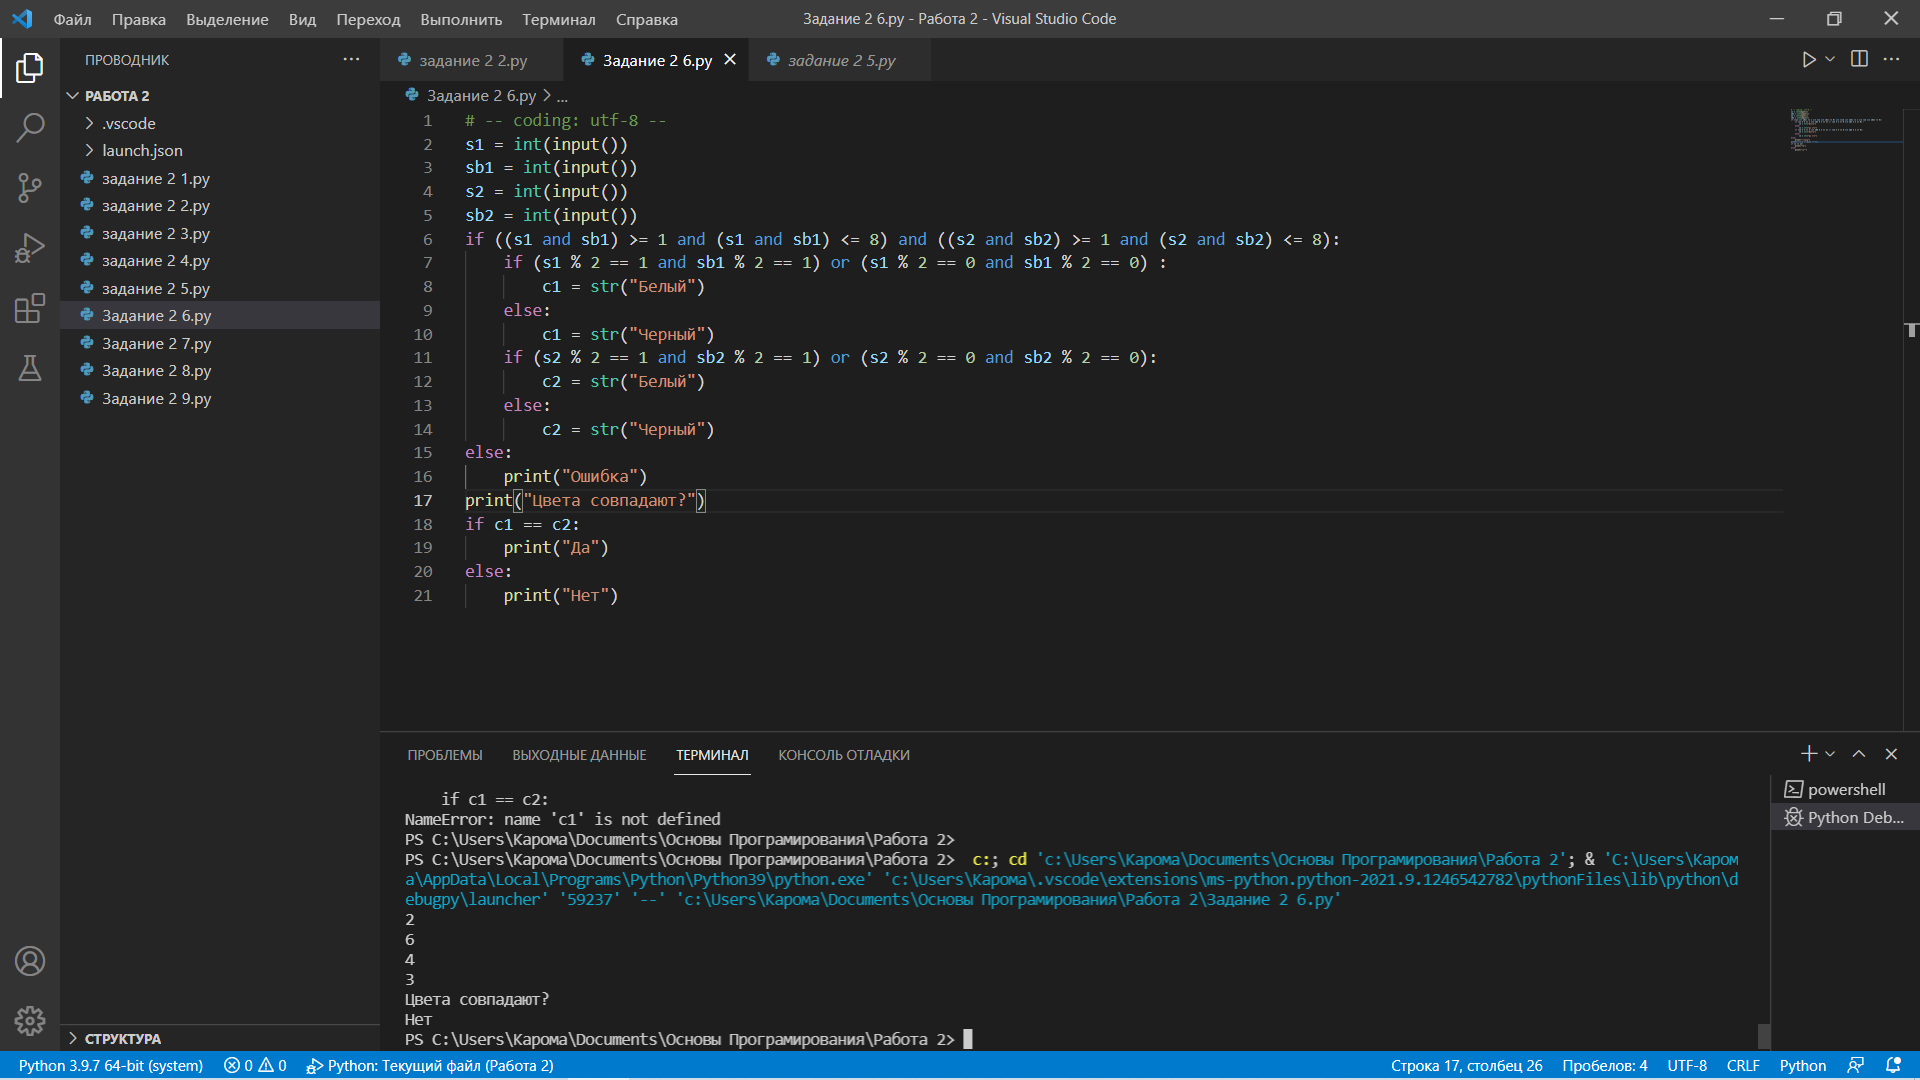
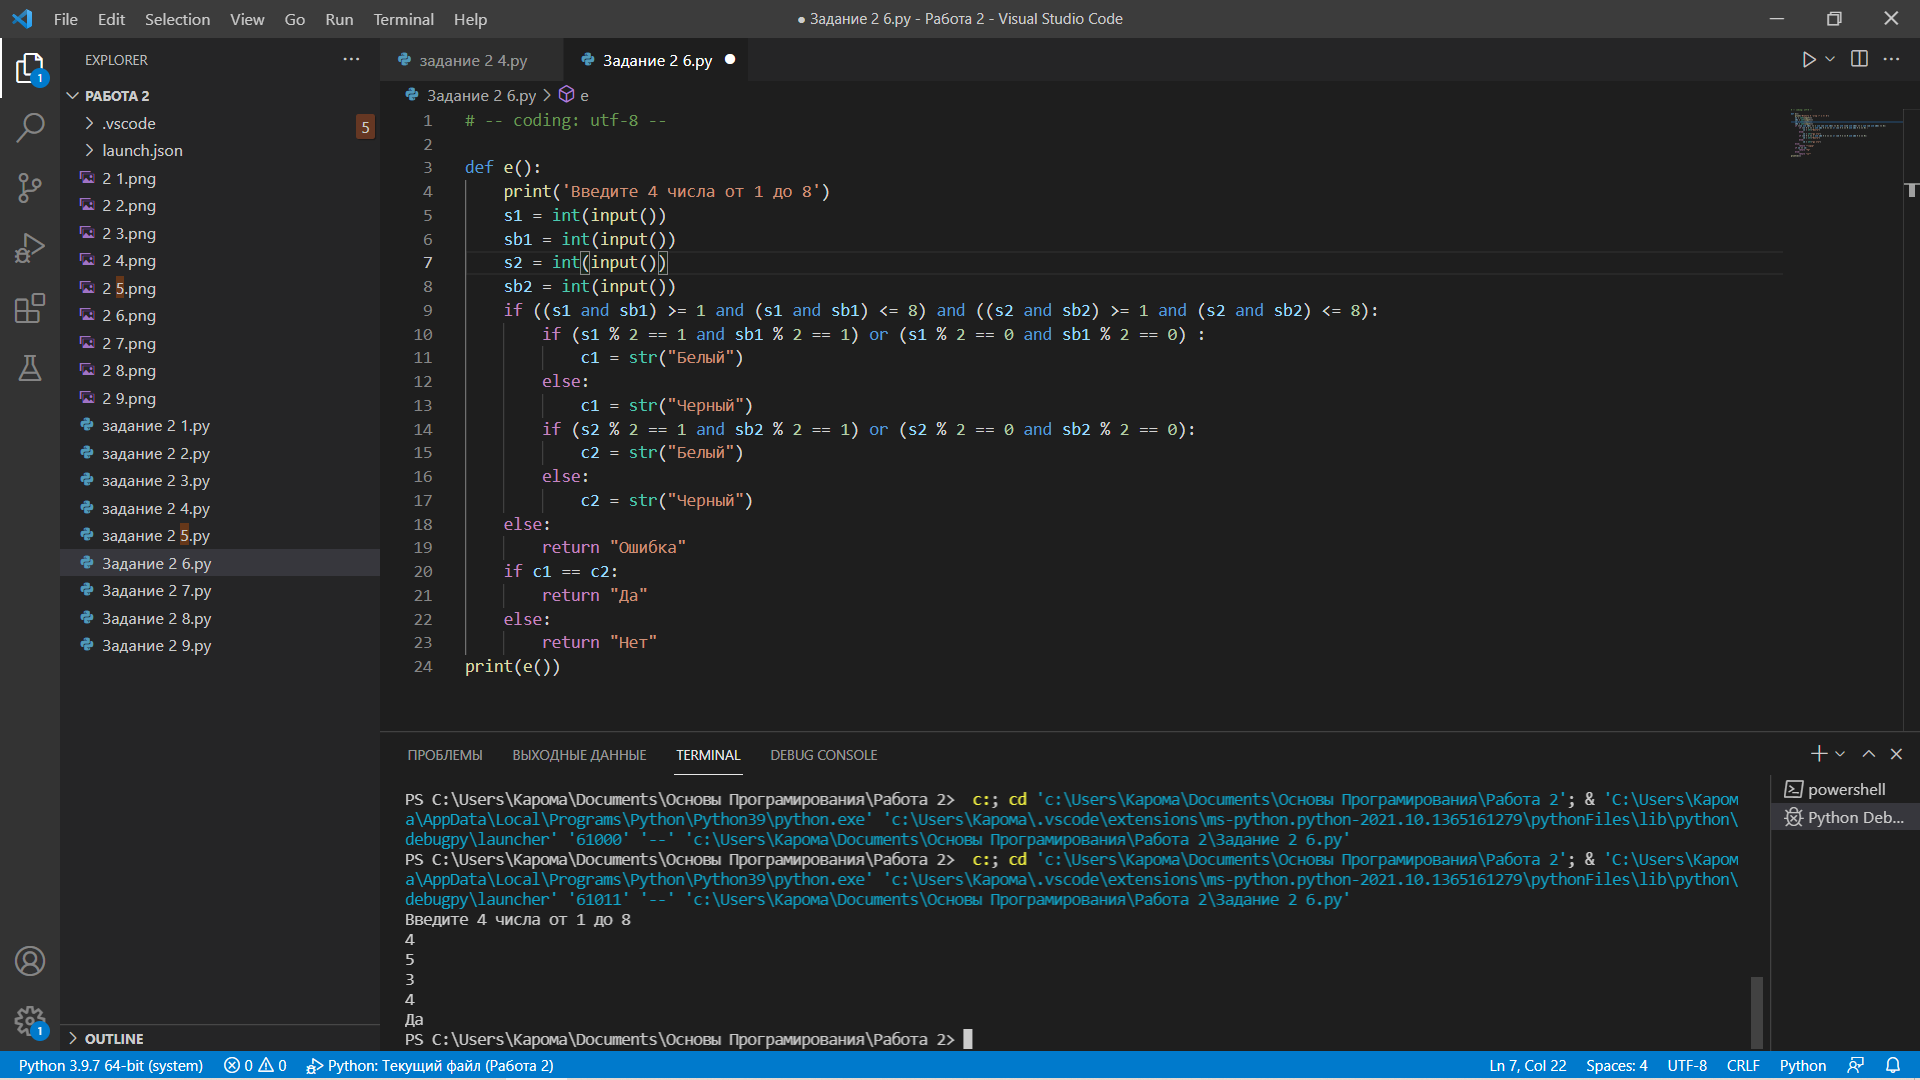
Add files via upload

diff --git a/Работа 2/Задание 2 6.py b/Работа 2/Задание 2 6.py
@@ -1,21 +1,24 @@
 # -- coding: utf-8 --
-s1 = int(input())
-sb1 = int(input())
-s2 = int(input())
-sb2 = int(input())
-if ((s1 and sb1) >= 1 and (s1 and sb1) <= 8) and ((s2 and sb2) >= 1 and (s2 and sb2) <= 8):
-    if (s1 % 2 == 1 and sb1 % 2 == 1) or (s1 % 2 == 0 and sb1 % 2 == 0) :
-        c1 = str("Белый")
+
+def e():
+    print('Введите 4 числа от 1 до 8')
+    s1 = int(input())
+    sb1 = int(input())
+    s2 = int(input())
+    sb2 = int(input())
+    if ((s1 and sb1) >= 1 and (s1 and sb1) <= 8) and ((s2 and sb2) >= 1 and (s2 and sb2) <= 8):
+        if (s1 % 2 == 1 and sb1 % 2 == 1) or (s1 % 2 == 0 and sb1 % 2 == 0) :
+            c1 = str("Белый")
+        else:
+            c1 = str("Черный")
+        if (s2 % 2 == 1 and sb2 % 2 == 1) or (s2 % 2 == 0 and sb2 % 2 == 0):
+            c2 = str("Белый")
+        else:
+            c2 = str("Черный")
     else:
-        c1 = str("Черный")
-    if (s2 % 2 == 1 and sb2 % 2 == 1) or (s2 % 2 == 0 and sb2 % 2 == 0):
-        c2 = str("Белый")
+        return "Ошибка"
+    if c1 == c2:
+        return "Да"
     else:
-        c2 = str("Черный")
-else:
-    print("Ошибка")
-print("Цвета совпадают?")
-if c1 == c2:
-    print("Да")
-else:
-    print("Нет")
+        return "Нет"
+print(e())

diff --git a/Работа 2/Задание 2 9.py b/Работа 2/Задание 2 9.py
@@ -1,11 +1,14 @@
 # -- coding: utf-8 --
-a = int(input())
-b = int(input())
-c = int(input())
-if a != b:
-    if (a * b > c) and (c % a == 0 or c % b == 0):
-        print('да')
+
+def r():
+    a = int(input())
+    b = int(input())
+    c = int(input())
+    if a != b:
+        if (a * b > c) and (c % a == 0 or c % b == 0):
+            return'да'
+        else:
+            return'нет'
     else:
-        print('нет')
-else:
-    print('Шоколадка должна быть прямоугольной формы')
+        return'Шоколадка должна быть прямоугольной формы'
+print(r())

diff --git a/Работа 2/задание 2 4.py b/Работа 2/задание 2 4.py
@@ -1,6 +1,10 @@
 # -- coding: utf-8 --
-a=int(input('расстаяние между рядами '))
-b=int(input('расстояние между дорочками в ряду '))
-l=int(input('длинна кончиков шнурка '))
-N=int(input('количество дырочек в каждом ряду '))
-print(2*1+(2*N-1)*a+2*(N-1)*b)
+
+def w():
+    print("Введите 4 числа")
+    a = int(input())
+    b = int(input())
+    l = int(input())
+    N = int(input())
+    return (2 * N - 1) * a + 2 * 1 + 2 * (N - 1) * b
+print(w())

diff --git a/Работа 2/Задание 2 8.py b/Работа 2/Задание 2 8.py
@@ -1,10 +1,14 @@
 # -- coding: utf-8 --
-a = int(input())
-b = int(input())
-c = int(input())
-if (a ==b == c):
-    print('3')
-elif a == b or b == c or a == c:
-    print('2')
-else:
-    print('0')
+
+def r():
+    print('Введите 3 числа')
+    a = int(input())
+    b = int(input())
+    c = int(input())
+    if (a ==b == c):
+        return'3'
+    elif a == b or b == c or a == c:
+        return'2'
+    else:
+         return'0'
+print(r())

diff --git a/Работа 2/Задание 2 7.py b/Работа 2/Задание 2 7.py
@@ -1,7 +1,10 @@
 # -- coding: utf-8 --
-n = int(input())
-print('год високосный?')
-if (n % 4 == 0 and n % 100 != 0) or n % 400 == 0:
-    print('да')
-else:
-    print('нет')
+
+def Y():
+    n = int(input('Введите год '))
+    print('Год високосный?')
+    if (n % 4 == 0 and n % 100 != 0) or n % 400 == 0:
+         return 'Да'
+    else:
+        return 'Нет'
+print(Y())

diff --git a/Работа 2/задание 2 5.py b/Работа 2/задание 2 5.py
@@ -1,10 +1,9 @@
 # -- coding: utf-8 --
-a=int(input())
-b=int(input())
-c=int(input())
-if b>=a<=c:
-    print(a)
-elif a>=b<=c:
-    print(b)
-else:
-    print(c)
+
+def w():
+    print('Введите 3 числа')
+    x = int(input())
+    y = int(input())
+    z = int(input())
+    return min(x,y,z)
+print (w())

diff --git a/Работа 4/задание 4 1.py b/Работа 4/задание 4 1.py
@@ -1,0 +1,17 @@
+# -- coding: utf-8 --
+
+s=input()
+print(':::::::::')
+print('1/', s[2])
+x=int(len(s))-2
+print('2/', s[x])
+print('3/', s[:5])
+print('4/', s[x])
+x=int(len(s))
+print('5/', s[0:x:2])
+x=int(len(s))
+print('6/', s[1:x:2])
+print('7/', s[::-1])
+print('8/', s[::-2])
+x=len(s)
+print('9/',x)

diff --git a/Работа 3/задание 3 7.py b/Работа 3/задание 3 7.py
@@ -1,0 +1,10 @@
+# -- coding: utf-8 --
+
+a=int(input('Введите первое значение '))
+b=int(input('Введите второе значение '))
+if a<b:
+    for i in range(a, b+1):
+        print(i)
+elif a>b:
+    for i in range(a, b-1, -1):
+        print(i)

diff --git a/Работа 3/задание 3 9.py b/Работа 3/задание 3 9.py
@@ -1,0 +1,9 @@
+#— coding: utf-8 —
+
+n = int(input('Введите количество чисе44л Фиббоначчи:'))
+summ = 0
+(x, y) = (0, 1)
+for i in range(1, n):
+    (x, y) = (y, x + y)
+summ = summ + x
+print('Сумма чисел Фиббоначчи:',summ) 

diff --git a/Работа 3/задание 3 8.py b/Работа 3/задание 3 8.py
@@ -1,0 +1,8 @@
+# -- coding: utf-8 --
+
+a=int(input('Введите первое значение '))
+b=int(input('Введите второе значение '))
+if a<=b:
+    for i in range(a,b+1):
+        print(i)
+else: print('Значение не подходит')

diff --git a/Работа 3/задание 3 6.py b/Работа 3/задание 3 6.py
@@ -1,0 +1,8 @@
+# -- coding: utf-8 --
+
+a=int(input('Введите первое значение '))
+b=int(input('Введите второе значение '))
+if a>b:
+    for i in range(a, b-1, -1):
+        if i%2!=0:
+            print(i)

diff --git a/Работа 3/задание 3 1.py b/Работа 3/задание 3 1.py
@@ -1,0 +1,7 @@
+# -- coding: utf-8 --
+a=b=1
+N=int(input('Количество символов '))
+print(a, b, end='')
+for i in range(2, N):
+    a, b=b, a+b
+    print(b, end='')
